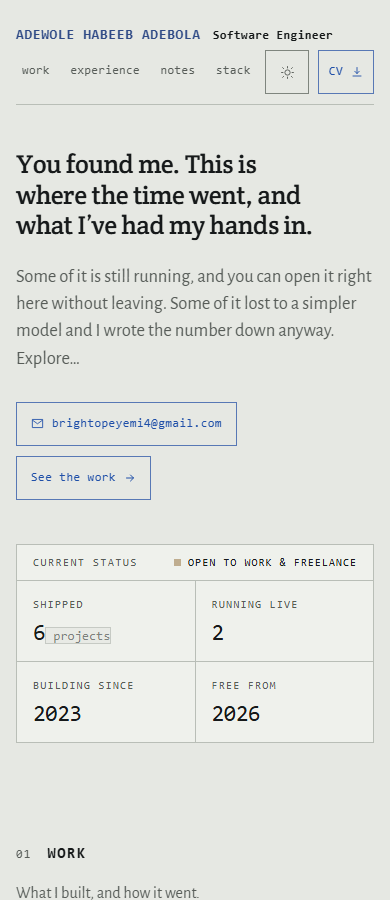
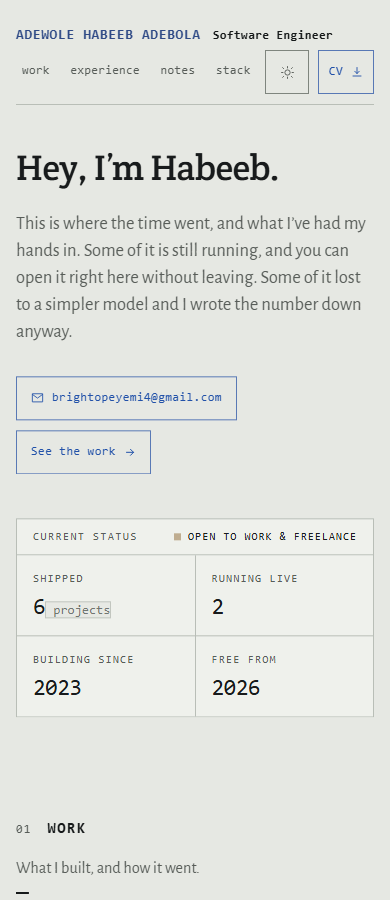
[phase-5] hero opens with a greeting
"You found me. This is where the time went, and what I've had my hands
in." becomes "Hey, I'm Habeeb."

The old headline was doing two jobs: introducing him and saying what the
page is. A greeting only does the first, so the second half moved into
the lede rather than being cut — without it the top of the page would
not say what it is. Nothing was lost, it just changed altitude.

The stack stays out of the hero, per the decision recorded in
profile.ts: no stack, no school, both are further down and the visitor
will reach them.

Sixteen characters at the old clamp read as a caption, so the headline
grows from 2.5rem to 4rem at the top end and the tracking tightens to
-0.015em. This is now the one line set large enough for Crete Round to
actually be seen, which is the point of having chosen it.

One line at both 1440 and 390, zero overflow, no target under 44px,
single h1 inside the landmark, no heading skips.

diff --git a/src/content/profile.ts b/src/content/profile.ts
@@ -25,13 +25,20 @@ export const profile = {
   available: 'Open to work & freelance',
   updated: '2026.08',
 
-  headline: 'You found me. This is where the time went, and what I’ve had my hands in.',
+  /* A greeting, not a sentence about the page. Short on purpose — it is the
+     one line set large enough for the face to actually be seen. */
+  headline: 'Hey, I’m Habeeb.',
 
   /* No stack, no school. Both are further down the page and the visitor will
-     get to them; the top of the page is for who is talking. */
+     get to them; the top of the page is for who is talking.
+
+     The first sentence used to be the second half of the headline. It moved
+     here rather than being cut: a greeting says nothing about the work, and
+     without this line the top of the page would not say what it is. */
   lede:
-    'Some of it is still running, and you can open it right here without leaving. ' +
-    'Some of it lost to a simpler model and I wrote the number down anyway. Explore…',
+    'This is where the time went, and what I’ve had my hands in. Some of it is ' +
+    'still running, and you can open it right here without leaving. Some of it ' +
+    'lost to a simpler model and I wrote the number down anyway.',
 } as const;
 
 /**

diff --git a/src/components/Hero.css b/src/components/Hero.css
@@ -3,10 +3,13 @@
 }
 
 .hero h1 {
-  font-size: clamp(1.6rem, 3.7vw, 2.5rem);
+  /* Much larger than the old headline, because it is much shorter. Sixteen
+     characters at the old 2.5rem read as a caption; at this size Crete Round
+     is finally big enough to look like a choice rather than a default. */
+  font-size: clamp(2.25rem, 7vw, 4rem);
   font-weight: 400;
-  line-height: 1.2;
-  letter-spacing: -0.01em;
+  line-height: 1.1;
+  letter-spacing: -0.015em;
   margin: 0 0 var(--s5);
   max-width: 26ch;
 }
